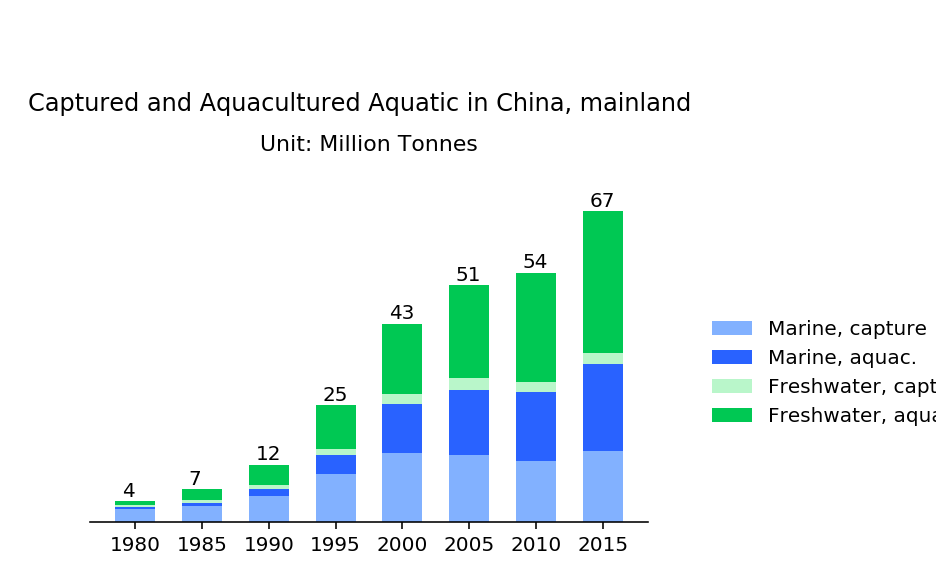
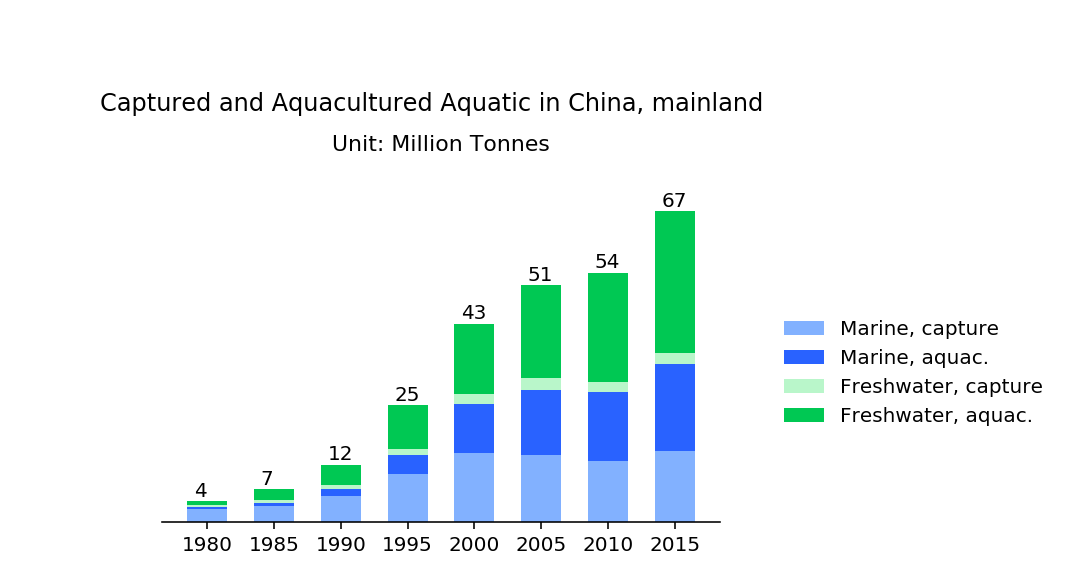
CN_AnimalProduction 1.0

Changed region(s): [[0.1239, 0.3125, 0.6816, 0.9688], [0.031, 0.1562, 0.7436, 0.2812], [0.7126, 0.5312, 1.0, 0.75]]

diff --git a/_posts/2019-12-18-MeatAtlas_ChinaMainland_DomesticAnimalProduction.md b/_posts/2019-12-18-MeatAtlas_ChinaMainland_DomesticAnimalProduction.md
@@ -257,7 +257,7 @@ Updated at {{ page.updated_at | date: "%Y-%m-%d" }}
     </tr>
     <tr>
         <td ><center>
-            <img src="https://raw.githubusercontent.com/tane-rs/meat_atlas/gh-pages/results/CN_AnimalProduction/img/01-Percentages (%) of Outputs of Animal Produced Food in China (mainland).png"/>
+            <img src="https://raw.githubusercontent.com/tane-rs/meat_atlas/gh-pages/results/CN_AnimalProduction/img/04-Percentages (%) of Captured and Aquacultured Aquatic in China (mainland).png"/>
             <p>Fig 4.1.c</p>
             <img src="">
         </center></td>
